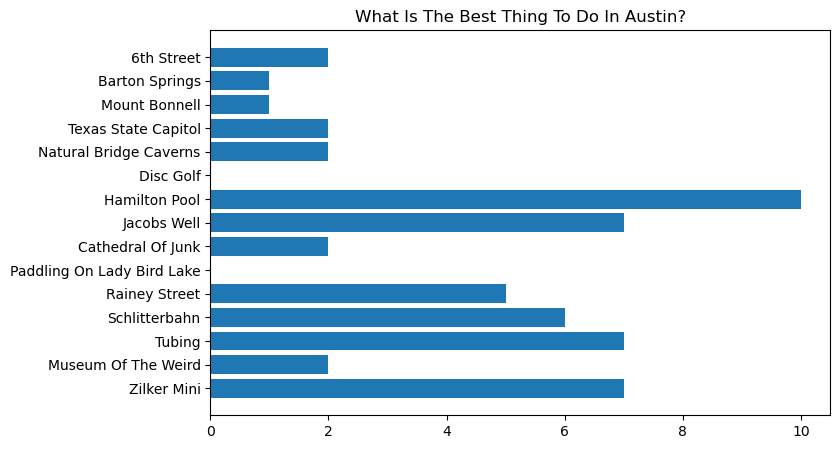
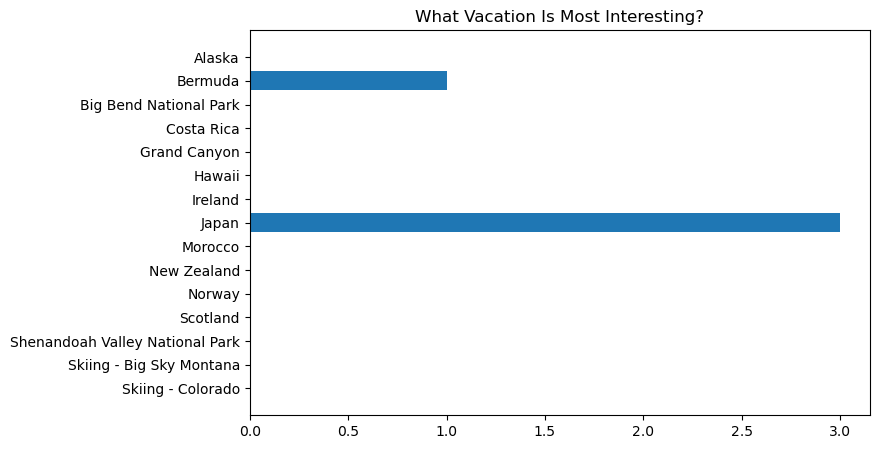
Vacation Matchups v1

diff --git a/pickActivities/views.py b/pickActivities/views.py
@@ -5,7 +5,7 @@ from PIL import Image
 import matplotlib.pyplot as plt
 
 def matchup(request):
-    book = ezsheets.Spreadsheet('1WgW4vMU-keRhkN1hFy9lU0WT044NJslmCwdAoNRRIoQ')
+    book = ezsheets.Spreadsheet('1Kdx1UyqB5MAltUPViK8Tsl3oB9i4KZXOFsZkvfu4om0')
     sheet = book['Sheet1']
     
     try:
@@ -29,7 +29,7 @@ def matchup(request):
 
 
 def results(request):
-    book = ezsheets.Spreadsheet('1WgW4vMU-keRhkN1hFy9lU0WT044NJslmCwdAoNRRIoQ')
+    book = ezsheets.Spreadsheet('1Kdx1UyqB5MAltUPViK8Tsl3oB9i4KZXOFsZkvfu4om0')
     sheet = book['Sheet1']
     plt.clf()
 
@@ -42,7 +42,7 @@ def results(request):
     fig, ax = plt.subplots(figsize = (8, 5))
     ax.barh(optionTitles,battlesWon)
     ax.invert_yaxis()
-    ax.set_title('What Is The Best Thing To Do In Austin?')
+    ax.set_title('What Vacation Is Most Interesting?')
     plt.savefig('pickActivities/static/pickActivities/graph.PNG', bbox_inches="tight")
 
     return render(request, 'pickActivities/results.html')
